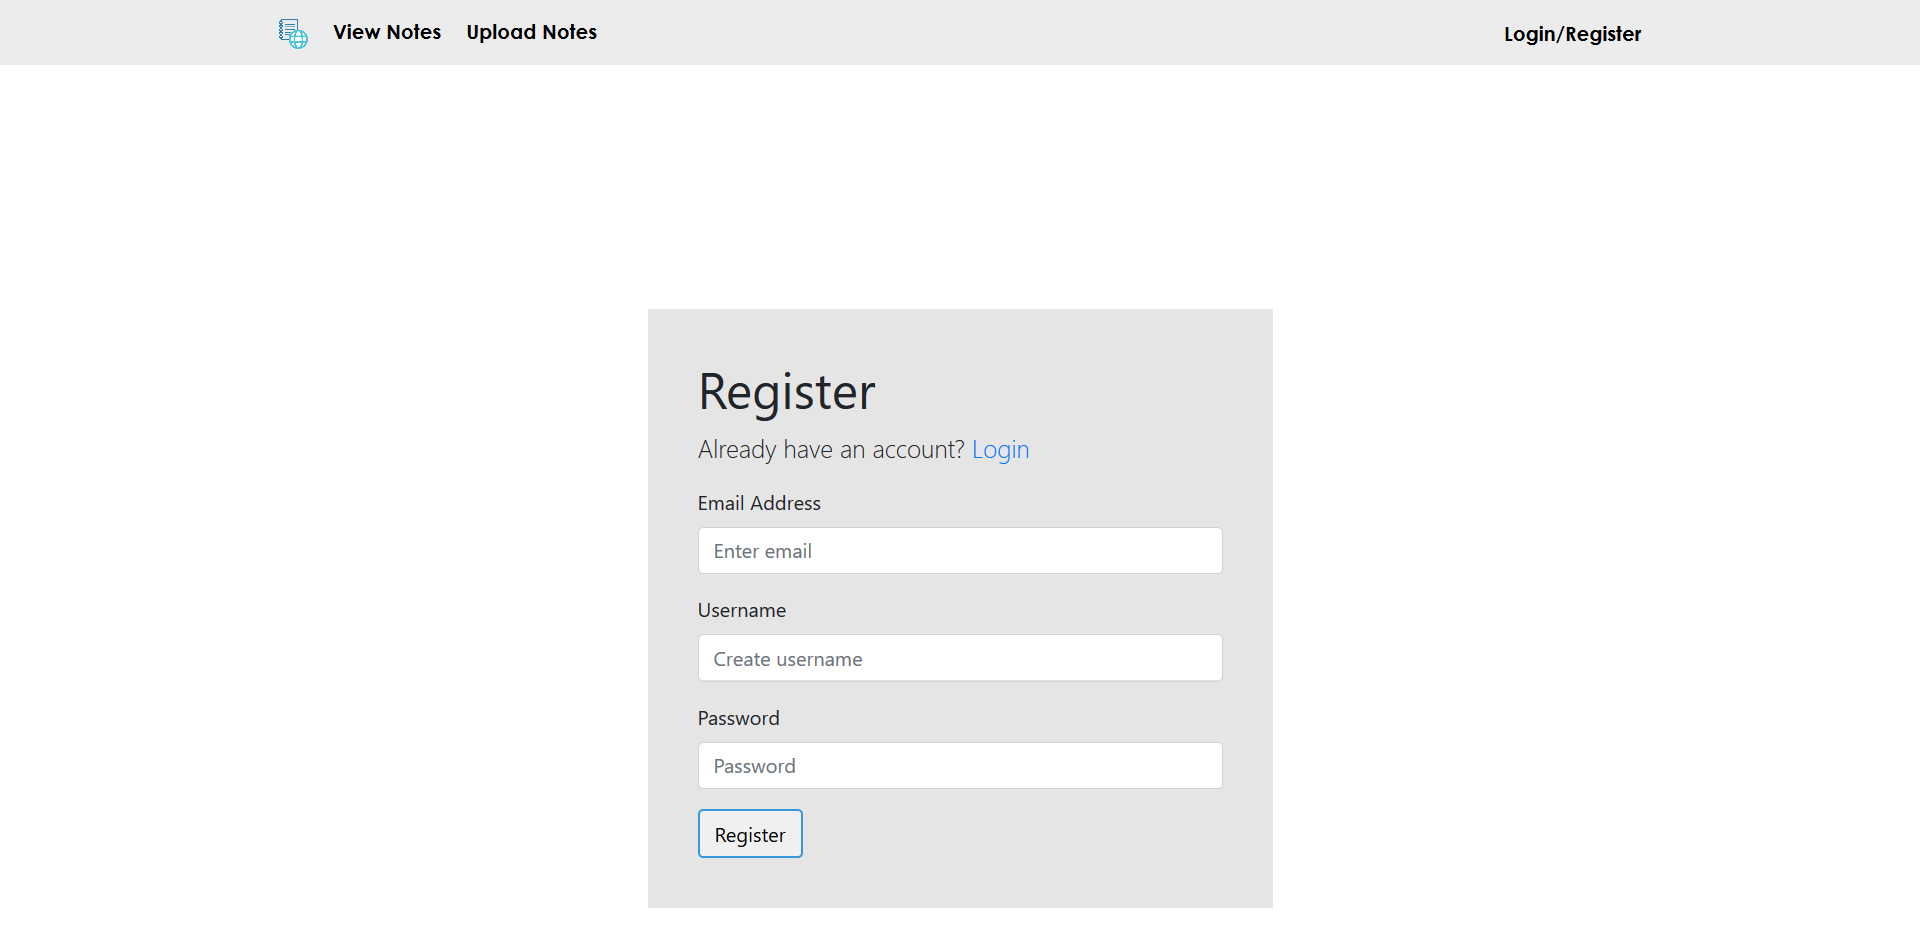
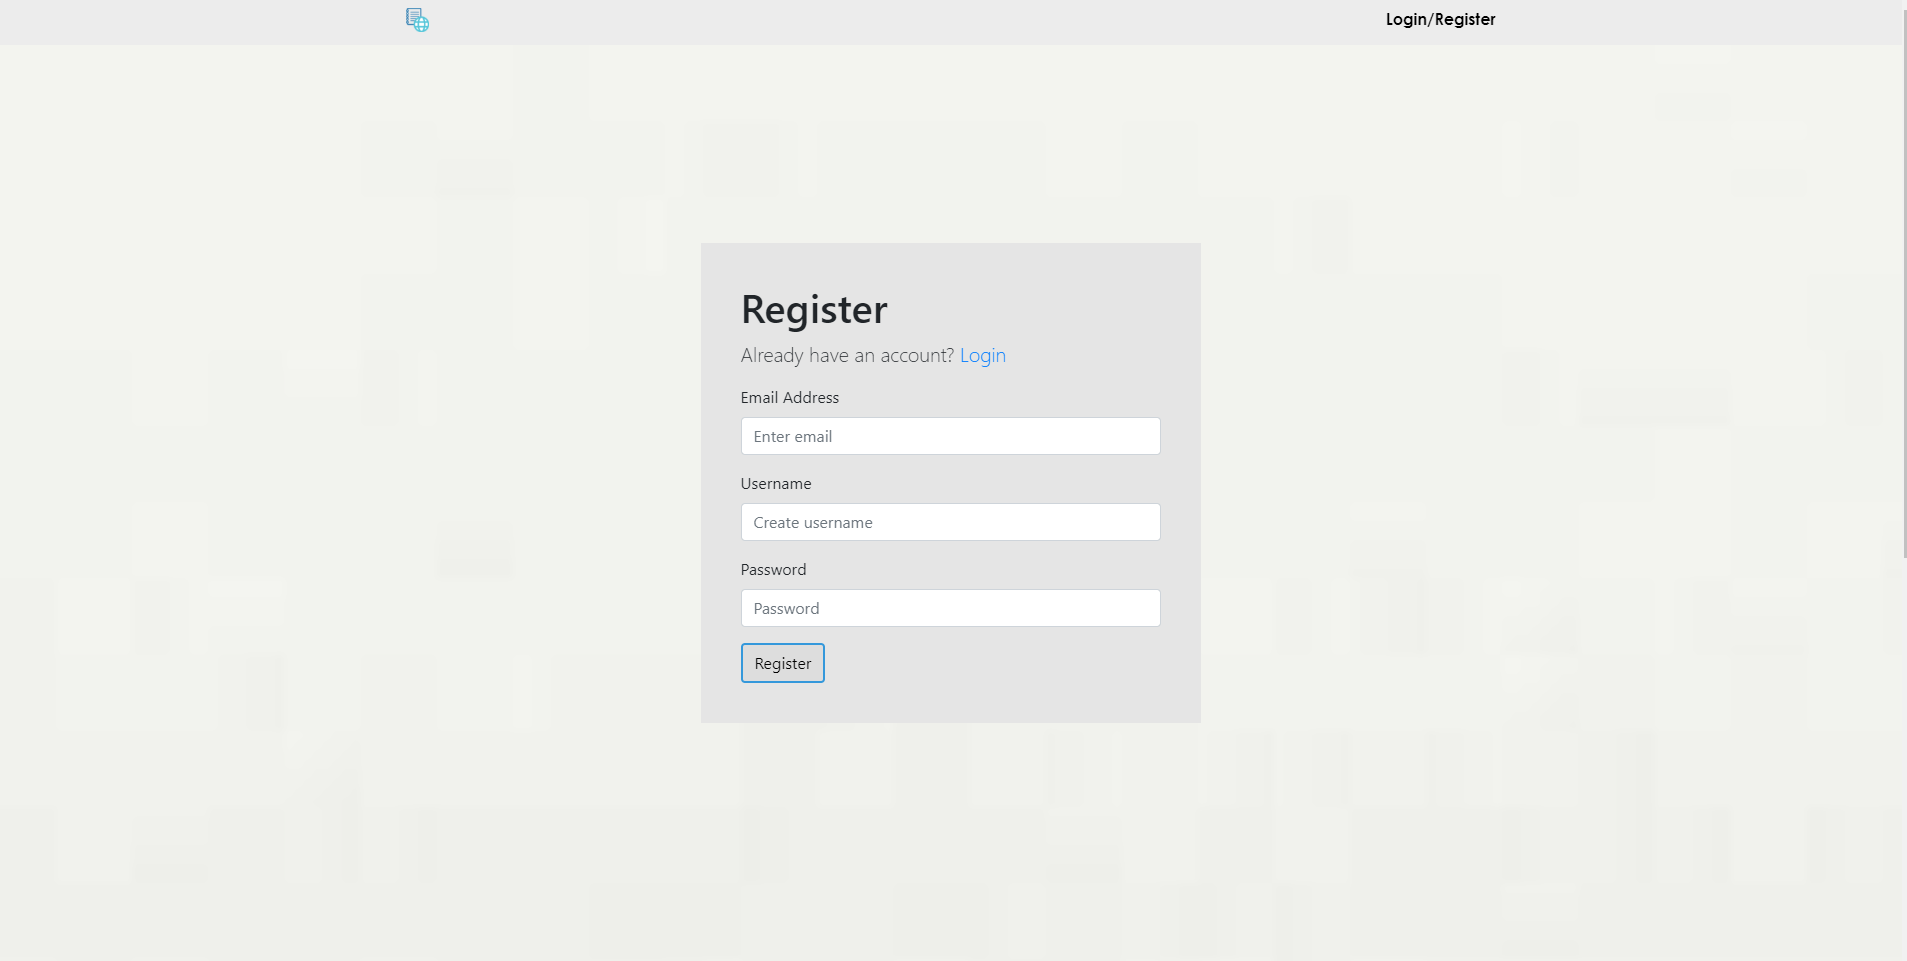
changed new screenshots and added inspiration link

diff --git a/teams-fall2018/HexabitSiliconium/index.html b/teams-fall2018/HexabitSiliconium/index.html
@@ -34,16 +34,19 @@
                     <a href="https://www.linkedin.com/in/michael-wono-a23b32132/" target="_blank"><img src="Michael.png" alt="" style="width=400px;height:200px"></a>
                 </div>
                 <pre class="names">Henry Ding    Jonathan Wong    Cassi Lam   Nandan Vinjamury  Michael Wono</pre>
-
+                <div class="insp">
+                    <a href="https://www.youtube.com/watch?v=dQw4w9WgXcQ" class="btn2" target="_blank">Inspiration</a>
+                </div>
+                
             </div>
 
             <h3>SCREENSHOTS</h3>
-            <img src="home.jpg" style="width:600px;height:300px;">
+            <img src="home.png" style="width:600px;height:300px;">
             <img src="Register.png" style="width:600px;height:300px;">
-            <img src="Login.png" style="width:600px;height:300px;">
+            <img src="Signin.png" style="width:600px;height:300px;">
             <img src="Upload.png" style="width:600px;height:300px;">
-            <img src="AllNotes.png" style="width:600px;height:300px;">
-            <img src="Indiv.png" style="width:600px;height:300px;">
+            <img src="View.png" style="width:600px;height:300px;">
+            <img src="Notes.png" style="width:600px;height:300px;">
 
     </header>
 

diff --git a/teams-fall2018/HexabitSiliconium/style.css b/teams-fall2018/HexabitSiliconium/style.css
@@ -130,11 +130,34 @@ h3
 	text-align: center;
 	margin-top: 200px;
 }
-	
-	
-	
-	
 
+.insp
+{
+	text-decoration: none;
+	color: white;
+	text-transform: uppercase;
+	font-size: 20px;
+	text-align: center;
+	margin-top: 25px;
+}
+	
+.btn2
+{
+	border: 1px solid white;
+	padding: 10px 30px;
+	color: white;
+	text-decoration: none;
+	margin-right: 5px;
+	font-size: 13px;
+	text-transform: uppercase;
+	
+}
+	
+.btn2:hover
+{
+	background-color: darkorange;
+	transition: all 0.5s ease
+}
 
 
 
